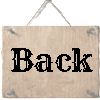
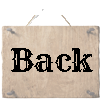
playSceneのカウントとか

Changed region(s): [[0.33, 0.0, 0.63, 0.15]]

diff --git a/Source/PlayScene.cpp b/Source/PlayScene.cpp
@@ -4,37 +4,129 @@
 #include "../Library/SceneManager.h"
 #include "../Library/GuiButton.h"
 
-PlayScene::PlayScene() 
-	: bgImage_00(-1)
+PlayScene::PlayScene()
+    : bgImage_00(-1), ui_pl_01(-1), ui_pl_02(-1), ryeFontHandle(-1)
+    , startTime(0), gameTimer(0.0f), fadeAlpha(255), uiAlpha(255)
 {
-    //背景画像のロード
+    //背景とUI素材のロード
     bgImage_00 = LoadGraph("data/play/BG_pl_00.png");
+    ui_pl_01 = LoadGraph("data/play/UI_pl_01.png");
+    ui_pl_02 = LoadGraph("data/play/UI_pl_02.png");
 
-    //メニューのボタン配置設定
-    int bx = 50;  //ボタンのX座標
-    int by = 400; //Y座標
-    int bw = 400; //ボタンの幅
-    int bh = 90;  //ボタンの高さ
-    int bi = 100; //ボタン間隔
+    //Ryeフォントの動的読み込み (PCに入っていなくても一時的に使用可能にする)
+    const char* fontPath = "data/Rye-Regular.ttf";
+    if (AddFontResourceEx(fontPath, FR_PRIVATE, NULL) > 0) {
+        ryeFontHandle = CreateFontToHandle("Rye", 60, 3, DX_FONTTYPE_ANTIALIASING_EDGE_4X4);
+    }
+    else {
+        //読み込めなかった場合のフォールバック
+        ryeFontHandle = CreateFontToHandle(NULL, 60, 3);
+    }
 
-    //ボタン画像のロード
+    //シーン開始時刻を記録
+    startTime = GetNowHiPerformanceCount();
+
+    // 戻るボタン
     int btnImg_b_pl_00 = LoadGraph("data/play/UI_pl_00.png");
-
-    //左上の戻るボタン
     auto b_pl_00 = new GuiButton(20, 0, 100, 100, "Back");
     b_pl_00->SetImage(btnImg_b_pl_00);
-    b_pl_00->onClick = []() { SceneManager::ChangeScene("RETURN"); };
+    b_pl_00->onClick = []() { SceneManager::ChangeScene("TITLE"); };
     buttons.push_back(b_pl_00);
 }
 
 PlayScene::~PlayScene()
 {
+    DeleteGraph(bgImage_00);
+    DeleteGraph(ui_pl_01);
+    DeleteGraph(ui_pl_02);
+    DeleteFontToHandle(ryeFontHandle);
+    //フォントのリソース解放
+    RemoveFontResourceEx("data/font/Rye-Regular.ttf", FR_PRIVATE, NULL);
 }
 
 void PlayScene::Update()
 {
+    LONGLONG nowTime = GetNowHiPerformanceCount();
+    float elapsedSec = (float)(nowTime - startTime) / 1000000.0f; // 経過秒数
+
+    //画面全体のフェードイン (1秒間)
+    if (elapsedSec <= 1.0f) {
+        fadeAlpha = 255 - (int)(elapsedSec * 255);
+    }
+    else {
+        fadeAlpha = 0;
+    }
+
+    //カウントアップとUI_pl_02のタイムライン制御
+    if (elapsedSec >= 3.0f) {
+        float countTime = elapsedSec - 3.0f; // カウント開始（UI_pl_02出現）からの秒数
+
+        // 【タイマーとアルファ状態の分岐】
+        if (countTime < 4.5f) {
+            //0.0秒 〜 4.5秒：カウントアップしつつ、徐々に薄くする
+            gameTimer = countTime;
+            uiAlpha = 255 - (int)((countTime / 4.5f) * 255);
+        }
+        else if (countTime >= 4.5f && countTime < 20.0f) {
+            //4.5秒 〜 20.0秒：画面からは消えるが、裏でカウントアップは継続
+            gameTimer = countTime;
+            uiAlpha = 0; // 完全にみえない
+        }
+        else {
+            //20.0秒以降：20.0秒でカウントをストップし、再びパッと表示する
+            gameTimer = 20.0f;
+            uiAlpha = 255; // 再表示
+        }
+    }
+
+    for (auto b : buttons) b->Update();
 }
 
 void PlayScene::Draw()
 {
+    //背景
+    DrawGraph(0, 0, bgImage_00, FALSE);
+
+    LONGLONG nowTime = GetNowHiPerformanceCount();
+    float elapsedSec = (float)(nowTime - startTime) / 1000000.0f;
+
+    //UI表示ロジック
+    if (elapsedSec < 3.0f) {
+        // 最初の3秒間は UI_pl_01 を表示
+        DrawGraph(0, 0, ui_pl_01, TRUE);
+    }
+    else {
+        //3秒経過後（カウント開始後）の処理
+
+        if (elapsedSec >= 23.0f) {
+            //【20秒経過後（3秒 + 20秒 = 23秒以降）】
+            // 看板(UI_pl_02)は描画せず、ストップした文字だけをパッと完全不透明で描画
+            DrawFormatStringToHandle(590, 120, GetColor(60, 40, 20), ryeFontHandle, "%04.1f", gameTimer);
+        }
+        else {
+            //【0秒 〜 20秒未満の間】（4.5秒かけて消えるフェードアウト期間など）
+            // uiAlpha が 0 より大きい時だけ、看板と文字をセットで透過描画
+            if (uiAlpha > 0) {
+                SetDrawBlendMode(DX_BLENDMODE_ALPHA, uiAlpha);
+
+                // 看板UIの描画
+                DrawGraph(0, 0, ui_pl_02, TRUE);
+
+                // カウントアップ文字 (Ryeフォント)
+                DrawFormatStringToHandle(590, 120, GetColor(60, 40, 20), ryeFontHandle, "%04.1f", gameTimer);
+
+                SetDrawBlendMode(DX_BLENDMODE_NOBLEND, 0);
+            }
+        }
+    }
+
+    // ボタン描画
+    for (auto b : buttons) b->Draw();
+
+    // 画面全体のフェードイン用黒ベタ
+    if (fadeAlpha > 0) {
+        SetDrawBlendMode(DX_BLENDMODE_ALPHA, fadeAlpha);
+        DrawBox(0, 0, 1280, 720, GetColor(0, 0, 0), TRUE);
+        SetDrawBlendMode(DX_BLENDMODE_NOBLEND, 0);
+    }
 }

diff --git a/Source/PlayScene.h b/Source/PlayScene.h
@@ -13,8 +13,13 @@ public:
     void Draw() override;
 
 private:
-    int bgImage_00;                     // 背景画像のグラフィックハンドル
-    int bgImage_01;
-    int bgScrollX;
+    int bgImage_00;
+    int ui_pl_01, ui_pl_02;
+    int ryeFontHandle;      // Ryeフォント用
+    
+    LONGLONG startTime;     // シーン開始時間
+    float gameTimer;        // 00.0用の数値
+    int fadeAlpha;          // 画面全体のフェードイン用
+    int uiAlpha;            // UI_pl_02とタイマーの透過度用
     std::vector<GuiButton*> buttons; // ボタン配列
 };

diff --git a/Source/HelpScene.cpp b/Source/HelpScene.cpp
@@ -51,6 +51,7 @@ HelpScene::HelpScene()
 
     //[1] 説明書きを表示する巨大な土台ボタン
     auto b_he_01 = new GuiButton(600, 150, 600, 500, "Help");
+    b_he_01->SetIgnoreDimming(true);//常に明るくする
     b_he_01->SetImage(helpDe); //初期状態はデフォルト画像
     b_he_01->onClick = []() {};
     buttons.push_back(b_he_01);

diff --git a/Source/SelectScene.cpp b/Source/SelectScene.cpp
@@ -46,6 +46,7 @@ SelectScene::SelectScene()
 
     // [1] 説明書きボタン
     auto b_se_01 = new GuiButton(bx, 180, bw, 200, "Help");
+	b_se_01->SetIgnoreDimming(true);//常に明るくする
     b_se_01->SetImage(seDefaultImg);
     b_se_01->onClick = []() { SceneManager::ChangeScene("HELP"); };
     buttons.push_back(b_se_01);